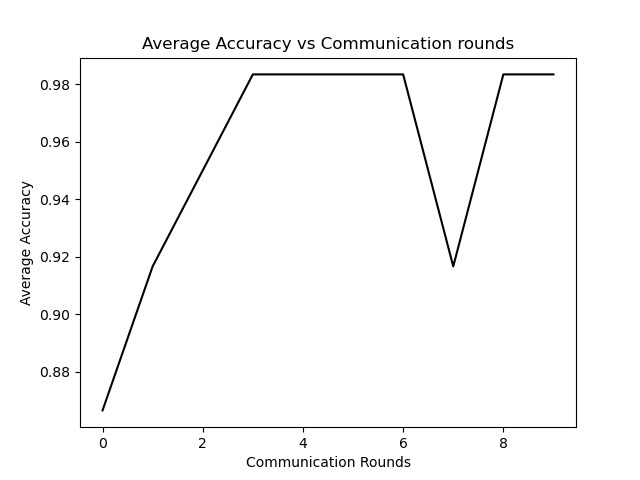
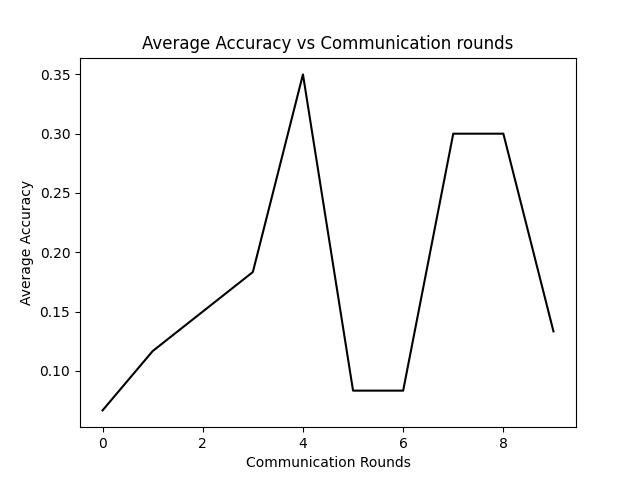
gradient explosion fixed

diff --git a/src/update.py b/src/update.py
@@ -62,7 +62,7 @@ class LocalUpdate(object):
         # Set optimizer for the local updates
         if self.args.optimizer == 'sgd':
             optimizer = torch.optim.SGD(model.parameters(), lr=self.args.lr,
-                                        momentum=0.5)
+                                        momentum=0.9, weight_decay=self.args.weight_decay)
         elif self.args.optimizer == 'adam':
             optimizer = torch.optim.Adam(model.parameters(), lr=self.args.lr,
                                          weight_decay=1e-4)
@@ -89,6 +89,8 @@ class LocalUpdate(object):
 
         return model, model.state_dict(), sum(epoch_loss) / len(epoch_loss)
 
+
+
     def update_weights_align(self, model, idx, all_models, global_model, disc, global_round, writer):
         for local_model in all_models:
             local_model.eval()
@@ -100,7 +102,7 @@ class LocalUpdate(object):
         # Set optimizer for the local updates
         if self.args.optimizer == 'sgd':
             optimizer = torch.optim.SGD(model.parameters(), lr=self.args.lr,
-                                        momentum=0.5)
+                                        momentum=0.5, weight_decay=self.args.weight_decay)
         elif self.args.optimizer == 'adam':
             optimizer = torch.optim.Adam(model.parameters(), lr=self.args.lr,
                                          weight_decay=1e-4)
@@ -145,14 +147,6 @@ class LocalUpdate(object):
                 batch_loss.append(loss.item())
             epoch_loss.append(sum(batch_loss)/len(batch_loss))
 
-        # Set optimizer for the local updates
-        if self.args.optimizer == 'sgd':
-            optimizer = torch.optim.SGD(model.parameters(), lr=self.args.lr,
-                                        momentum=0.5)
-        elif self.args.optimizer == 'adam':
-            optimizer = torch.optim.Adam(model.parameters(), lr=self.args.lr,
-                                         weight_decay=1e-4)
-
         disc.train()
         model.eval()
         disc_loss = 0
@@ -185,6 +179,15 @@ class LocalUpdate(object):
         
         kl_loss = nn.KLDivLoss(reduction="batchmean")
         kl_loss_log = nn.KLDivLoss(reduction="batchmean", log_target=True)
+
+         # Set optimizer for the local updates
+        if self.args.optimizer == 'sgd':
+            optimizer = torch.optim.SGD(model.parameters(), lr=self.args.lr,
+                                        momentum=0.5,  weight_decay=self.args.weight_decay)
+        elif self.args.optimizer == 'adam':
+            optimizer = torch.optim.Adam(model.parameters(), lr=self.args.lr,
+                                         weight_decay=1e-4)
+
         disc.eval()
         model.train()
         for iter in range(self.args.local_ep):
@@ -214,12 +217,13 @@ class LocalUpdate(object):
                 loss_comb = loss + l_uniform + loss_cgr + self.lambda_cgl * loss_cgl
                 print(f"loss: {loss.item()}, l_uniform: {l_uniform.item()}, loss_cgr: {loss_cgr.item()}, loss_cgl: {loss_cgl.item()}, loss_comb: {loss_comb.item()}")
                 loss_comb.backward()
+                # loss.backward()
                 torch.nn.utils.clip_grad_norm_(model.parameters(), max_norm=self.args.clip_value)
                 optimizer.step()
 
         return model.state_dict(), sum(epoch_loss) / len(epoch_loss), disc_loss / len(self.trainloader)
 
-
+   
 
     def inference(self, model):
         """ Returns the inference accuracy and loss.

diff --git a/src/options.py b/src/options.py
@@ -21,12 +21,15 @@ def args_parser():
                         help="local batch size: B")
     parser.add_argument('--lr', type=float, default=0.01,
                         help='learning rate')
-    parser.add_argument('--momentum', type=float, default=0.5,
+    parser.add_argument('--momentum', type=float, default=0.9,
                         help='SGD momentum (default: 0.5)')
     parser.add_argument('--gpu_id', type=int, default=0, 
                         help='GPU ID, if not provided, CPU will be used')
     parser.add_argument('--clip_value', type=float, default=1.0, 
                         help='Gradient clipping value (default: 1.0)')
+    parser.add_argument('--weight_decay', type=float, default=2e-4, 
+                        help='Weight decay (default: 1e-4)')
+
 
 
 

diff --git a/README.md b/README.md
@@ -36,6 +36,8 @@ Federated experiment involves training a global model using many local models.
 * To run the federated experiment with CIFAR on CNN (IID):
 ```
 python src/federated_main.py --model=cnn --dataset=cifar --gpu=0 --iid=1 --epochs=10
+
+## Currently working command
 python src/federated_main.py --model=cnn --dataset=mnist --gpu_id=0 --iid=1 --epochs=10
 ```
 * To run the same experiment under non-IID condition:
